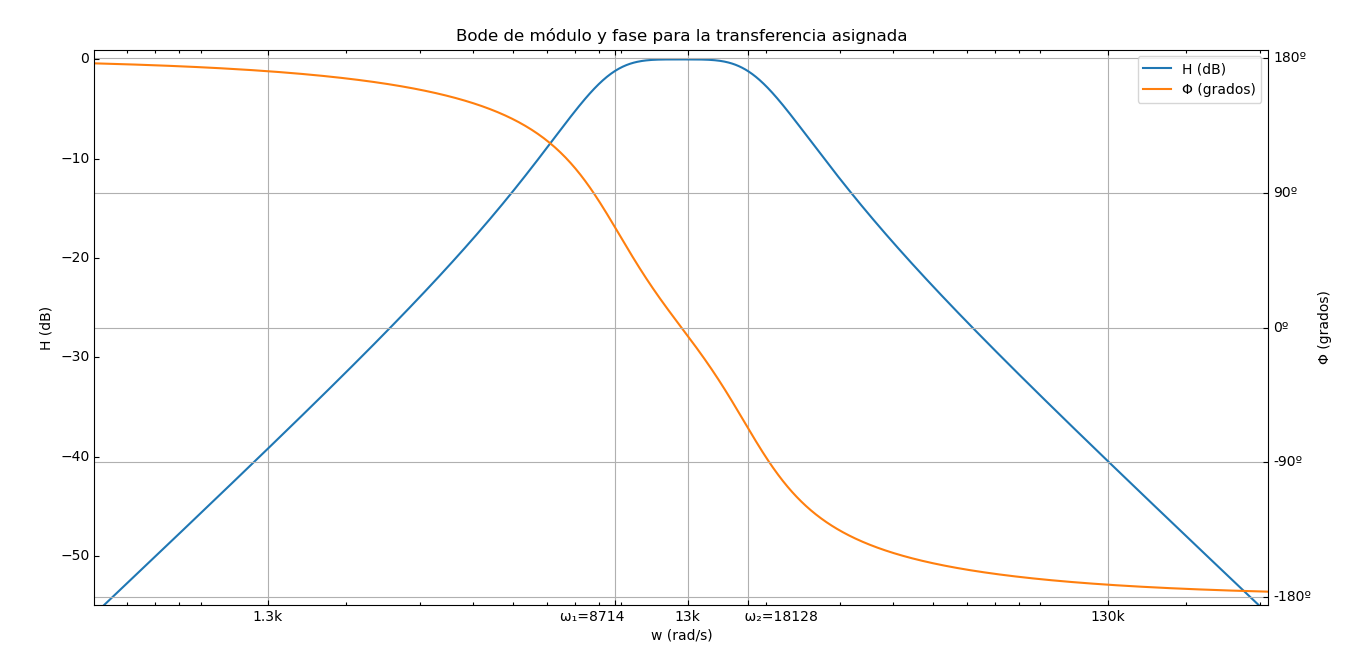
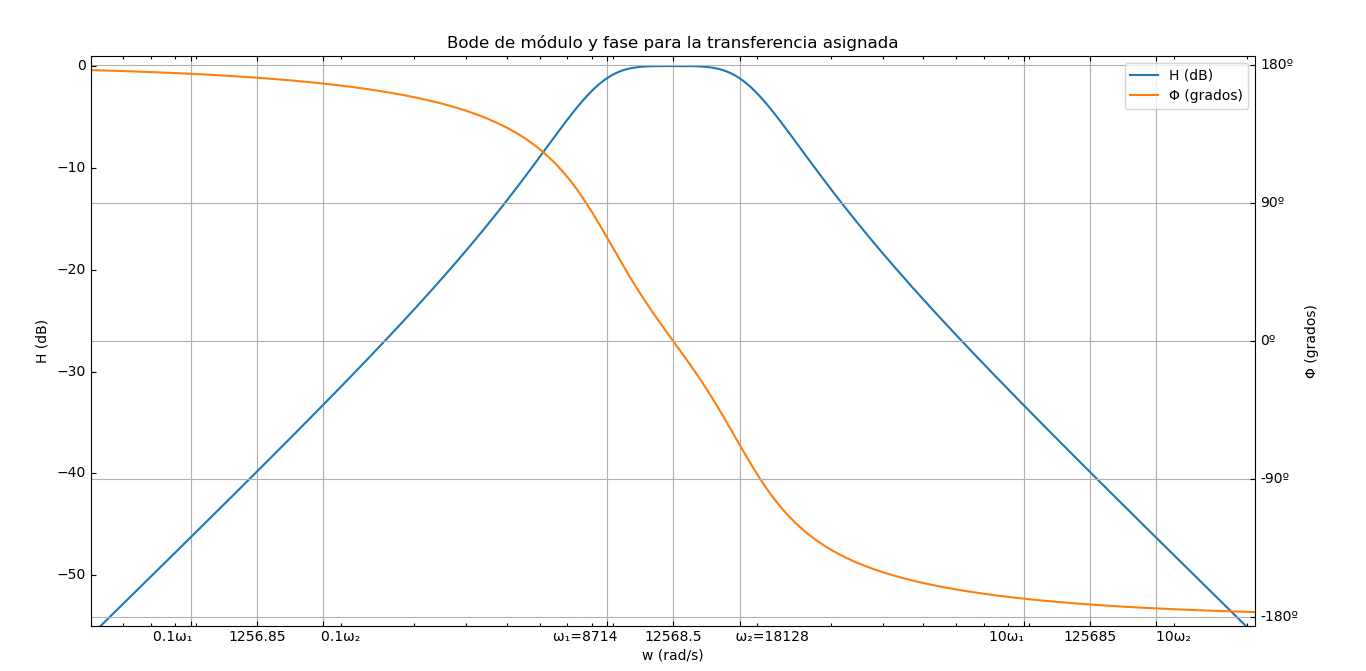
Improve 2a graph

diff --git a/2a.py b/2a.py
@@ -45,8 +45,8 @@ plt.xlabel('w (rad/s)')
 plt.xlim(frequencies[0], frequencies[-1])
 plt.xscale("log")
 plt.xticks(
-    [1300, 13000, 130000, 8714, 18128],
-    ['1.3k', '13k', '130k', 'ω₁=8714          ', '               ω₂=18128']
+    [1256.85, 12568.5, 125685, 8714, 18128, 871.4, 1812.8, 87140, 181280],
+    ['1256.85', '12568.5', '125685', 'ω₁=8714          ', '               ω₂=18128', '0.1ω₁        ', '        0.1ω₂', '10ω₁        ', '        10ω₂']
 )
 plt.grid(True, axis="x")
 plt.legend()
